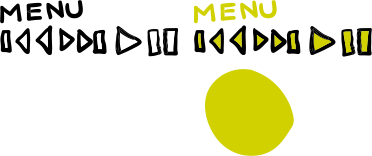
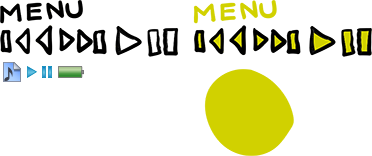
Updates sprite image

diff --git a/src/css/ipod.css b/src/css/ipod.css
@@ -115,7 +115,7 @@
 }
 
 .select-link img {
-  background-position: 0 -54px;
+  background-position: -101px -57px;
   height: 87px;
   width: 89px;
 }
